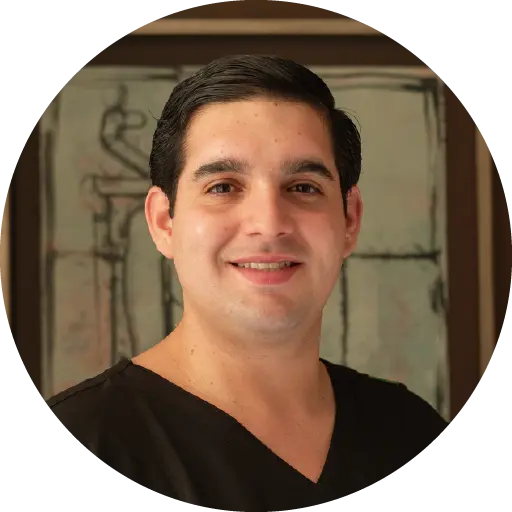
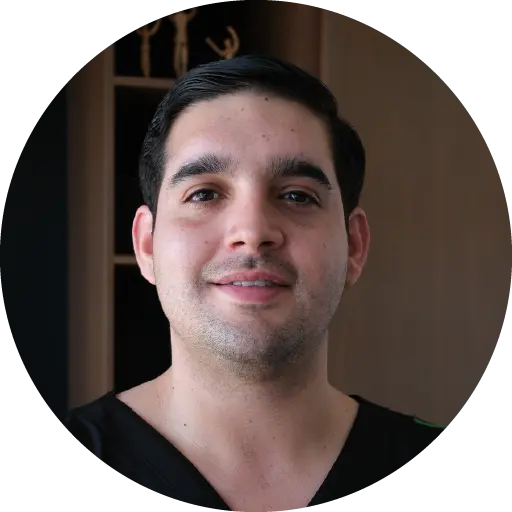
remove dr

diff --git a/public/index.html b/public/index.html
@@ -87,11 +87,6 @@
           "@type": "Person",
           "name": "Dr. Juan Manuel Dipp Tagle",
           "jobTitle": "Medical Director"
-        },
-        {
-          "@type": "Person", 
-          "name": "Dr. Juan Manuel Dipp Núñez",
-          "jobTitle": "Orthopedic Surgeon"
         }
       ],
       "sameAs": [
@@ -358,21 +353,6 @@
                             <h3 data-es="Dr. Juan Manuel Dipp Tagle" data-en="Dr. Juan Manuel Dipp Tagle">Dr. Juan Manuel Dipp Tagle</h3>
                             <p class="member-specialty" data-es="Director Médico del Programa" data-en="Medical Director of the Program">Medical Director of the Program</p>
                             <p class="member-description" data-es="El Dr. Juan Manuel Dipp Tagle es el director médico del programa y un médico general con más de cinco años de experiencia en medicina regenerativa, especializándose en protocolos terapéuticos utilizando células madre para enfermedades ortopédicas, reumáticas, autoinmunes y degenerativas crónicas." data-en="Dr. Juan Manuel Dipp Tagle is the medical director of the program and a general physician with over five years of experience in regenerative medicine, specializing in therapeutic protocols using stem cells for orthopedic, rheumatic, autoimmune, and chronic degenerative diseases.">Dr. Juan Manuel Dipp Tagle is the medical director of the program and a general physician with over five years of experience in regenerative medicine, specializing in therapeutic protocols using stem cells for orthopedic, rheumatic, autoimmune, and chronic degenerative diseases.</p>
-                        </div>
-                    </div>
-                    
-                    <div class="team-member">
-                        <div class="member-photo">
-                            <div class="photo-placeholder">
-                                <div class="placeholder-text">
-                                    <p>Dr. Photo</p>
-                                </div>
-                            </div>
-                        </div>
-                        <div class="member-info">
-                            <h3 data-es="Dr. Juan Manuel Dipp Núñez" data-en="Dr. Juan Manuel Dipp Núñez">Dr. Juan Manuel Dipp Núñez</h3>
-                            <p class="member-specialty" data-es="Cirujano Ortopedista, Doctorado en Cirugía de Columna" data-en="Orthopedic Surgeon, Doctorate in Spine Surgery">Orthopedic Surgeon, Doctorate in Spine Surgery</p>
-                            <p class="member-description" data-es="El Dr. Juan Manuel Dipp Núñez es un distinguido cirujano ortopedista con doctorado en cirugía de columna y más de 35 años de práctica médica. Reconocido como una de las figuras líderes en el campo de la cirugía de columna en México, el Dr. Dipp ha construido una carrera marcada por la innovación, excelencia y compromiso con el avance de las técnicas quirúrgicas. Está certificado por el Consejo Mexicano de Células Troncales con fines terapéuticos y de investigación, reflejando su papel pionero en integrar la medicina regenerativa en la cirugía de columna—un área donde ha acumulado más de una década de experiencia especializada." data-en="Dr. Juan Manuel Dipp Núñez is a distinguished orthopedic surgeon with a doctorate in spine surgery and more than 35 years of medical practice. Recognized as one of the leading figures in the field of spine surgery in Mexico, Dr. Dipp has built a career marked by innovation, excellence, and commitment to advancing surgical techniques. He is certified by the Mexican Council of Stem Cells for Therapeutic and Research Purposes, reflecting his pioneering role in integrating regenerative medicine into spine surgery—an area where he has accumulated over a decade of specialized experience.">Dr. Juan Manuel Dipp Núñez is a distinguished orthopedic surgeon with a doctorate in spine surgery and more than 35 years of medical practice. Recognized as one of the leading figures in the field of spine surgery in Mexico, Dr. Dipp has built a career marked by innovation, excellence, and commitment to advancing surgical techniques. He is certified by the Mexican Council of Stem Cells for Therapeutic and Research Purposes, reflecting his pioneering role in integrating regenerative medicine into spine surgery—an area where he has accumulated over a decade of specialized experience.</p>
                         </div>
                     </div>
                     
